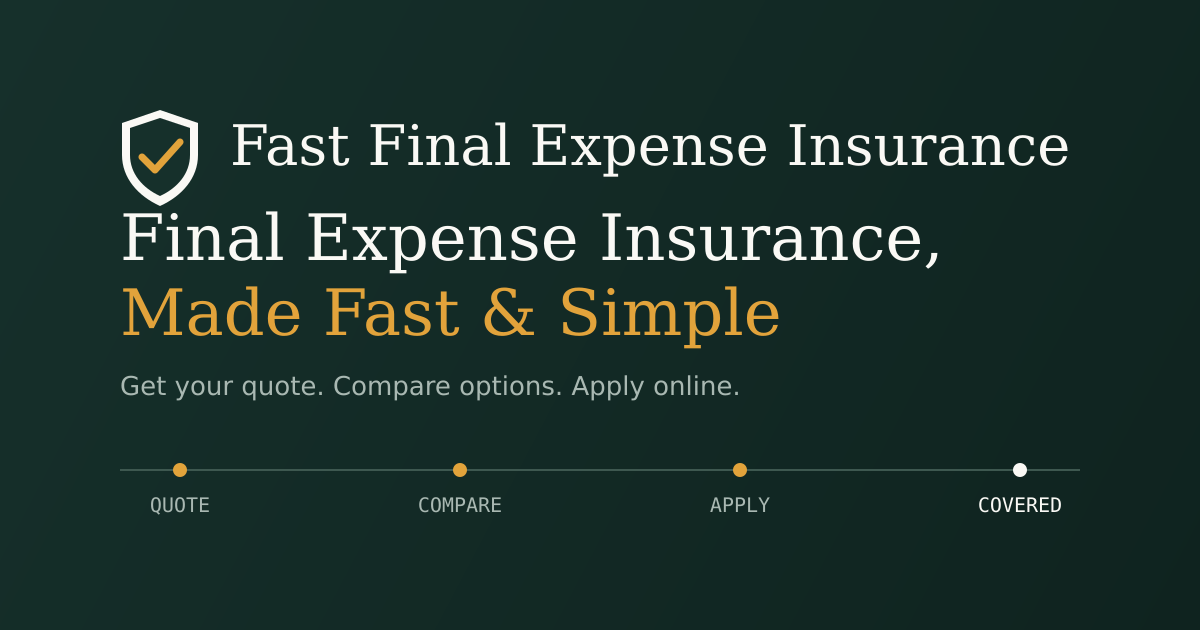
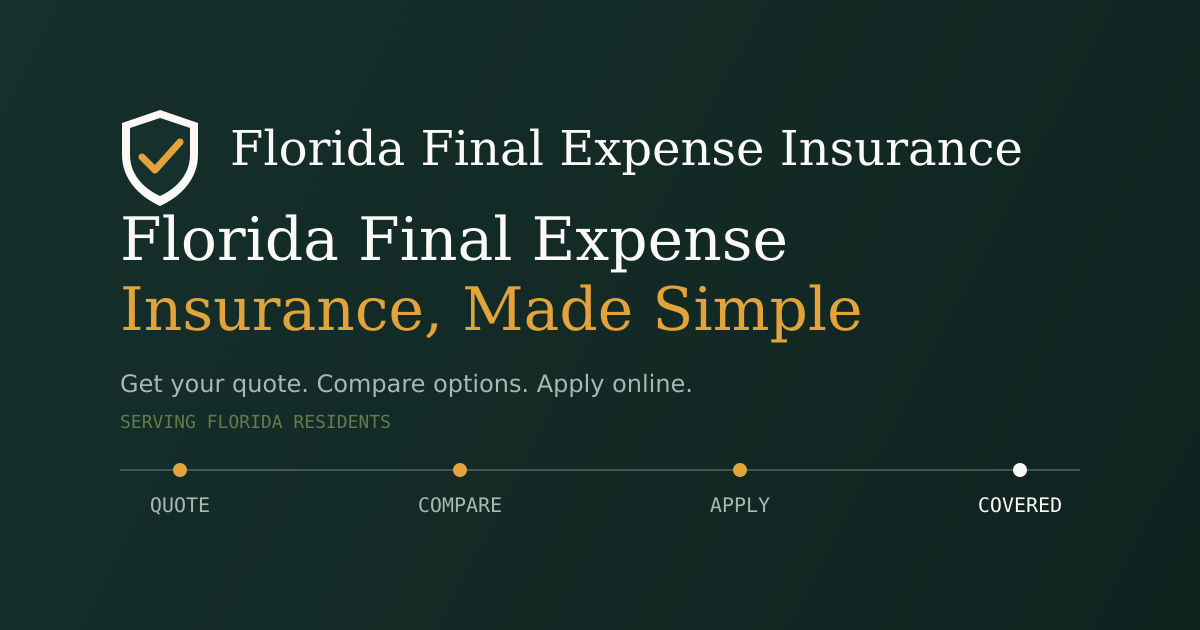
Rebrand to Florida Final Expense Insurance; add Florida-only service area messaging site-wide

diff --git a/src/data/faq.ts b/src/data/faq.ts
@@ -15,6 +15,11 @@ export const HOMEPAGE_FAQS: FaqItem[] = [
       "Final expense insurance is a type of permanent life insurance designed to help cover end-of-life costs, such as funeral, burial, or cremation expenses. It typically offers a smaller coverage amount than traditional life insurance and is aimed at making the application process simple.",
   },
   {
+    question: "Is Florida Final Expense Insurance available outside Florida?",
+    answer:
+      "No. We're currently licensed to offer final expense insurance in Florida only, so our quotes and application process are available to Florida residents at this time.",
+  },
+  {
     question: "How much does final expense insurance cost?",
     answer:
       "Cost varies based on factors like your age, gender, health, tobacco use, and the coverage amount you choose. Because pricing differs by carrier and applicant, the most accurate way to see your cost is to request a personalized quote.",
@@ -58,6 +63,11 @@ export const HOMEPAGE_FAQS: FaqItem[] = [
 
 export const FINAL_EXPENSE_PAGE_FAQS: FaqItem[] = [
   {
+    question: "Is this available if I live outside Florida?",
+    answer:
+      "Not currently. We're licensed to offer final expense insurance in Florida only, so this coverage is available to Florida residents at this time.",
+  },
+  {
     question: "What's the difference between simplified issue and guaranteed issue final expense insurance?",
     answer:
       "Simplified issue policies ask a short list of health questions and don't require a medical exam — pricing and eligibility depend on your answers. Guaranteed issue policies don't ask health questions at all, but they often cost more per dollar of coverage and may include a graded death benefit for the first two to three years.",
@@ -86,6 +96,11 @@ export const FINAL_EXPENSE_PAGE_FAQS: FaqItem[] = [
 
 export const BURIAL_INSURANCE_PAGE_FAQS: FaqItem[] = [
   {
+    question: "Do you offer burial insurance outside Florida?",
+    answer:
+      "Not at this time. We're licensed to offer burial insurance in Florida only, so this coverage is available to Florida residents.",
+  },
+  {
     question: "Is burial insurance the same thing as final expense insurance?",
     answer:
       "Generally, yes — \"burial insurance\" and \"final expense insurance\" are commonly used to describe the same type of small, permanent life insurance policy intended to help cover funeral and burial-related costs.",
@@ -113,6 +128,11 @@ export const BURIAL_INSURANCE_PAGE_FAQS: FaqItem[] = [
 ];
 
 export const SENIOR_LIFE_PAGE_FAQS: FaqItem[] = [
+  {
+    question: "Is this available to seniors outside Florida?",
+    answer:
+      "Not currently. We're licensed to offer these products in Florida only, so they're available to Florida residents at this time.",
+  },
   {
     question: "Is there an age limit for life insurance for seniors?",
     answer:

diff --git a/src/data/site.ts b/src/data/site.ts
@@ -5,13 +5,13 @@
 // -----------------------------------------------------------------------
 
 export const SITE = {
-  name: "Fast Final Expense Insurance",
-  shortName: "Fast Final Expense",
+  name: "Florida Final Expense Insurance",
+  shortName: "Florida Final Expense",
   domain: "fastfinalexpenseinsurance.com",
   url: "https://fastfinalexpenseinsurance.com",
-  tagline: "Final Expense Insurance Made Fast & Simple",
+  tagline: "Florida Final Expense Insurance, Made Fast & Simple",
   description:
-    "Get your final expense insurance quote in minutes. Compare your options, apply online, and get covered quickly — coverage available for eligible applicants.",
+    "Get your Florida final expense insurance quote in minutes. Compare options, apply online, and get covered quickly — for eligible Florida residents.",
   locale: "en_US",
   // TODO: Replace with the real support/sales phone number once available.
   phone: {
@@ -20,6 +20,16 @@ export const SITE = {
   },
   // TODO: Replace with the real contact inbox once available.
   email: "hello@fastfinalexpenseinsurance.com",
+} as const;
+
+// Licensed/service area. Referenced by compliance messaging across the site
+// (hero, quote page, footer disclaimer, About, Insurance Disclosures, and
+// Organization schema) so the scope of service only needs to be updated in
+// one place if it ever expands beyond Florida.
+export const SERVICE_AREA = {
+  stateName: "Florida",
+  stateAbbr: "FL",
+  shortDisclosure: "Currently licensed to offer coverage in Florida only.",
 } as const;
 
 export type NavLink = {

diff --git a/src/lib/schema.ts b/src/lib/schema.ts
@@ -5,7 +5,7 @@
 // aggregate rating data is ever generated here.
 // -----------------------------------------------------------------------
 
-import { SITE } from "../data/site";
+import { SITE, SERVICE_AREA } from "../data/site";
 
 type JsonLd = Record<string, unknown>;
 
@@ -19,6 +19,10 @@ export function organizationSchema(): JsonLd {
     // TODO: add "logo" once a production logo asset exists.
     // TODO: add "sameAs" social profile URLs once available.
     description: SITE.description,
+    areaServed: {
+      "@type": "State",
+      name: SERVICE_AREA.stateName,
+    },
   };
 }
 

diff --git a/src/content.config.ts b/src/content.config.ts
@@ -9,7 +9,7 @@ const blog = defineCollection({
     description: z.string(),
     publishDate: z.coerce.date(),
     updatedDate: z.coerce.date().optional(),
-    author: z.string().default("Fast Final Expense Insurance"),
+    author: z.string().default("Florida Final Expense Insurance"),
     // Set true to keep a post out of the blog index and sitemap while it's
     // still being written/reviewed.
     draft: z.boolean().default(false),

diff --git a/README.md b/README.md
@@ -1,6 +1,6 @@
-# Fast Final Expense Insurance
+# Florida Final Expense Insurance
 
-Marketing and lead-generation website for **Fast Final Expense Insurance** — get a quote, compare options, apply online. Built with [Astro](https://astro.build), deployed to Cloudflare Pages.
+Marketing and lead-generation website for **Florida Final Expense Insurance** — get a quote, compare options, apply online. Currently licensed to offer coverage in Florida only (see `SERVICE_AREA` in `src/data/site.ts`). Built with [Astro](https://astro.build), deployed to Cloudflare Pages.
 
 Production: **https://fastfinalexpenseinsurance.com**
 
@@ -45,7 +45,7 @@ src/
     ui/            Design-system primitives (Button, Card, Section, Container, CTA, RouteLine, Breadcrumbs)
   content/
     blog/          Blog posts (Markdown), schema defined in src/content.config.ts
-  data/            Site-wide config: nav, CTA copy, FAQ content (single source of truth)
+  data/            Site-wide config: nav, CTA copy, FAQ content, SERVICE_AREA (single source of truth)
   layouts/         BaseLayout.astro (document shell), BlogPostLayout.astro
   lib/             schema.ts (JSON-LD builders), analytics.ts (tracking config)
   pages/           File-based routes

diff --git a/src/content/blog/how-much-does-final-expense-insurance-cost.md b/src/content/blog/how-much-does-final-expense-insurance-cost.md
@@ -2,7 +2,7 @@
 title: "How Much Does Final Expense Insurance Cost?"
 description: "Learn what determines the cost of final expense insurance, with example pricing factors and how to get an accurate quote for your situation."
 publishDate: 2026-01-22
-author: "Fast Final Expense Insurance"
+author: "Florida Final Expense Insurance"
 tags: ["final expense insurance", "cost", "pricing"]
 ---
 

diff --git a/src/content/blog/what-is-final-expense-insurance.md b/src/content/blog/what-is-final-expense-insurance.md
@@ -2,7 +2,7 @@
 title: "What Is Final Expense Insurance? A Simple Guide"
 description: "A plain-language guide to what final expense insurance is, what it pays for, how it works, and how to get a quote."
 publishDate: 2026-01-15
-author: "Fast Final Expense Insurance"
+author: "Florida Final Expense Insurance"
 tags: ["final expense insurance", "guide"]
 ---
 
